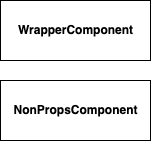
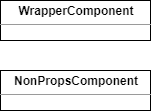
docs: ui 설계 - 퇴고

diff --git a/sw-design/ui-design-003.md b/sw-design/ui-design-003.md
@@ -151,7 +151,7 @@ const Example: FC<Props> = () => {
 
 ![](images/ui-design-003/ui-design-ClassDiagramDefault2.png)
 
-보시다시피 그냥 사각형에 이름만 덩그러니 주시면 됩니다 🙂
+보시다시피 그냥 사각형에 이름넣고 줄 하나 덩그러니 그어 주시면 됩니다 🙂
 
 ## 컴포넌트 그리기
 

diff --git a/sw-design/ui-design-006.md b/sw-design/ui-design-006.md
@@ -1,6 +1,6 @@
 # UI Component Design - 6. 스토어 작성
 
-이전 장에서 언급되었던 인터렉터(Interactor)와 상태(State) 관리기를 함께 작성 해 보겠습니다.
+이전 장에서 언급 되었던 인터렉터(Interactor)와 상태(State) 관리기를 함께 작성 해 보겠습니다.
 
 ## 진행 순서
 
